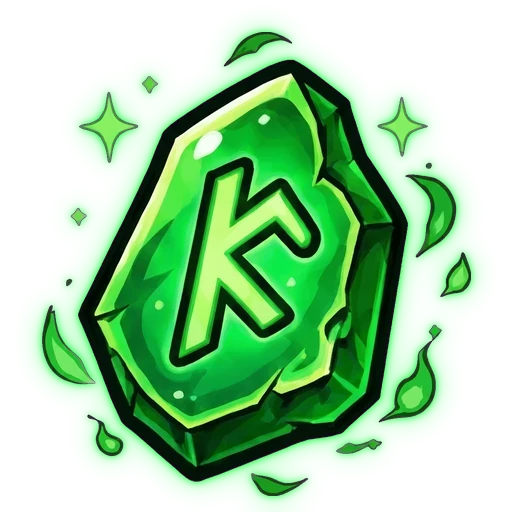
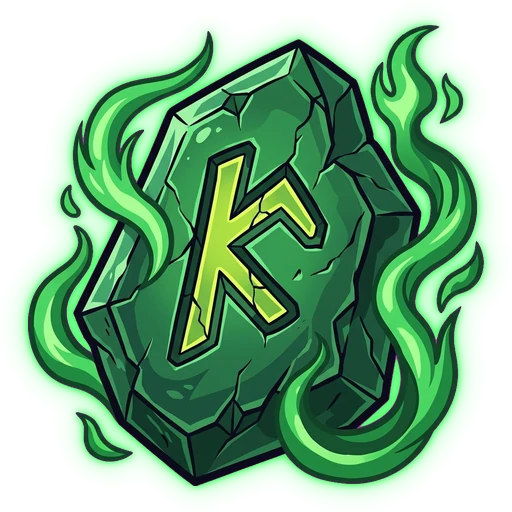
New symbols: runes and objects in the busts' cartoon style, a glowing light-blue FS, win animations for all
The runes, book, key, lantern, ring and potion are repainted in the darker cartoon style of the new characters; the FS
(scatter) is now shining light blue (its colour in the game too). Before they burst, all of them light up from their own
light layer (assets/sym-fx, their glowing parts) and a shine sweeps across; runes swell, tremble and crack with glowing
lines, the potion bubbles, lantern and book give off wisps, key, ring and FS throw sparkles. At rest runes and the FS
pulse their light gently.

diff --git a/ghost-duels-web/game.js b/ghost-duels-web/game.js
@@ -59,7 +59,7 @@ const SYM = {
   rune_purple: { name: i18n("Schattenrune", "Shadow Rune"), tier: "rune", rgb: "196 92 255", w: 10, pay: [.3, .8, 1.2, 2.5, 5, 10] },
   rune_fire:   { name: i18n("Feuerrune", "Fire Rune"), tier: "rune", rgb: "255 138 42",  w: 10, pay: [.3, .8, 1.2, 2.5, 5, 10] },
   rune_pink:   { name: i18n("Wirbelrune", "Whirl Rune"), tier: "rune", rgb: "255 79 168", w: 10, pay: [.3, .8, 1.2, 2.5, 5, 10] },
-  fs:     { name: i18n("Freispiele", "Free Spins"),       tier: "scatter", rgb: "255 79 210", w: .516, gloss: true },
+  fs:     { name: i18n("Freispiele", "Free Spins"),       tier: "scatter", rgb: "110 205 255", w: .516, gloss: true },
   vs:     { name: "VS",               tier: "special", rgb: "120 220 255", w: 0, gloss: true }
 };
 const CHARS = ["devil", "pirate", "witch", "blue"];
@@ -100,11 +100,8 @@ const RTP_TEXT = BASE_INFO.rtp.toLocaleString(RGS.lang, { minimumFractionDigits:
 
 // Face rigs, coordinates in % of the square symbol
 const RIG = {
-  // the four characters (busts) move with their win rigs (tools/sprites/symbols), not with clipped layers
-  book:    { glows: [{ x: 48, y: 40, w: 34, h: 30, c: "110 255 150" }] },
-  key:     { glows: [{ x: 57, y: 21, w: 10, h: 10, c: "255 245 140" }, { x: 70, y: 22, w: 10, h: 10, c: "255 245 140" }] },
-  lantern: { glows: [{ x: 52, y: 60, w: 26, h: 34, c: "110 255 160" }] },
-  ring:    { glows: [{ x: 55, y: 30, w: 26, h: 20, c: "245 150 255" }] }
+  // the four characters (busts) move with their win rigs (tools/sprites/symbols), not with clipped layers; the other
+  // symbols light up from their own light layers (assets/sym-fx, symFx)
 };
 
 const clip = poly => `polygon(${poly.map(([x, y]) => `${x}% ${y}%`).join(",")})`;
@@ -136,6 +133,12 @@ function makeSym(id, o = {}) {
   });
   (r.cheeks || []).forEach(c => rig.appendChild(box(div("cheek"), { ...c, h: c.w * .7 })));
   if (d.gloss) { const g = div("gloss"); g.style.webkitMaskImage = g.style.maskImage = `url(${IMG[id]})`; rig.appendChild(g); }
+  // runes, objects and the FS: their glowing parts as a light layer, and a shine that sweeps across them on a win
+  if (d.tier !== "char" && id !== "vs") {
+    const light = div("sym-light"); light.style.backgroundImage = `url(assets/sym-fx/${id}.webp)`;
+    const shine = div("sym-shine"); shine.style.webkitMaskImage = shine.style.maskImage = `url(${IMG[id]})`;
+    rig.append(light, shine);
+  }
   if (r.lids) el.classList.add("has-lids");
   rig.style.animationDelay = (-Math.random() * 3).toFixed(2) + "s";
   return el;
@@ -149,7 +152,9 @@ const POP = {
     { transform: "scale(1.25) rotate(6deg)", offset: .56 }, { transform: "scale(1.22) rotate(-4deg)", offset: .7 },
     { transform: "scale(1.15) rotate(0)", offset: .84 }, { transform: "scale(1)" }],
   obj: [{ transform: "scale(1)" }, { transform: "scale(.9)", offset: .1 }, { transform: "scale(1.22)", offset: .3 }, { transform: "scale(1.15)", offset: .75 }, { transform: "scale(1)" }],
-  rune: [{ transform: "perspective(400px) rotateY(0) scale(1)" }, { transform: "perspective(400px) rotateY(180deg) scale(1.18)", offset: .5 }, { transform: "perspective(400px) rotateY(360deg) scale(1)" }],
+  // a rune charges: it swells, trembles as its sign lights up, then cracks (symFx draws the cracks)
+  rune: [{ transform: "scale(1)" }, { transform: "scale(1.16)", offset: .25 }, { transform: "scale(1.14) rotate(-3deg)", offset: .35 }, { transform: "scale(1.15) rotate(3deg)", offset: .45 },
+    { transform: "scale(1.13) rotate(-2deg)", offset: .55 }, { transform: "scale(1.15) rotate(2deg)", offset: .65 }, { transform: "scale(1.08)", offset: .8 }, { transform: "scale(1)" }],
   scatter: [{ transform: "scale(1)" }, { transform: "scale(1.3) rotate(-7deg)", offset: .3 }, { transform: "scale(1.26) rotate(7deg)", offset: .55 }, { transform: "scale(1)" }],
   special: [{ transform: "scale(1)" }, { transform: "scale(1.2)", offset: .4 }, { transform: "scale(1)" }]
 };
@@ -197,12 +202,40 @@ function playSymRig(el, id) {
   const anim = RigPlayer.play(cv, rig, { intro: true });
   setTimeout(() => { anim.stop(); cv.remove(); el.classList.remove("rigging"); }, rig.intro * 1000 + 60);
 }
+// The win of a rune, an object or the FS: its light layer flares, a shine sweeps across it, and each kind adds its own
+// touch (cracks running through a rune, bubbles from the potion, wisps from the lantern and book, sparkles off the key
+// and the ring, a burst of light from the FS)
+const SYM_FX = { potion: "bubble", lantern: "wisp", book: "wisp", key: "spark", ring: "spark", fs: "spark" };
+function symFx(el, id, d) {
+  if (d.tier === "char" || id === "vs") return;
+  const light = q(el, ".sym-light"), shine = q(el, ".sym-shine"), dur = d.tier === "rune" ? 900 : 1300;
+  light?.animate([{ opacity: .15, transform: "scale(1)" }, { opacity: 1, transform: "scale(1.12)", offset: .35 }, { opacity: .85, transform: "scale(1.06)", offset: .7 }, { opacity: .15, transform: "scale(1)" }], { duration: dur });
+  shine?.animate([{ backgroundPosition: "-120% 0" }, { backgroundPosition: "220% 0" }], { duration: dur * .6, delay: dur * .15, easing: "ease-in-out" });
+  const [x, y, w] = centerOf(el);
+  if (d.tier === "rune") {
+    // cracks run out from the sign, then sparks of the rune's colour burst from them
+    const NS = "http://www.w3.org/2000/svg", svg = document.createElementNS(NS, "svg"); svg.setAttribute("viewBox", "0 0 100 100"); svg.setAttribute("class", "rune-cracks");
+    for (let i = 0; i < 5; i++) {
+      let px = 50, py = 50, a = i / 5 * Math.PI * 2 + Math.random() * .8, dd = `M50 50`;
+      for (let k = 0; k < 4; k++) { a += (Math.random() - .5) * 1.1; px += Math.cos(a) * (10 + Math.random() * 7); py += Math.sin(a) * (10 + Math.random() * 7); dd += ` L${px.toFixed(1)} ${py.toFixed(1)}`; }
+      const p = document.createElementNS(NS, "path"); p.setAttribute("d", dd); p.setAttribute("pathLength", "1"); svg.appendChild(p);
+    }
+    el.appendChild(svg);
+    qa(svg, "path").forEach(p => p.animate([{ strokeDashoffset: 1 }, { strokeDashoffset: 0 }], { duration: dur * .35, delay: dur * .4, fill: "backwards", easing: "ease-out" }));
+    svg.animate([{ opacity: 1 }, { opacity: 1, offset: .8 }, { opacity: 0 }], { duration: dur * 1.3 }).finished.then(() => svg.remove());
+    later(() => fx.emit(x, y, { n: 10, kind: "spark", rgb: d.rgb, scale: w / 130 }), dur * .55);
+    return;
+  }
+  const kind = SYM_FX[id]; if (!kind) return;
+  const burst = () => fx.emit(x, y - w * (kind === "bubble" ? .15 : 0), { n: kind === "spark" ? 14 : 8, kind, rgb: d.rgb, scale: w / 120 });
+  burst(); later(burst, dur * .4);
+}
 function animWin(el, mode = "win") {
   if (!el) return;
   const id = el.dataset.id, d = SYM[id];
   if (RM) { el.animate([{ filter: "brightness(1)" }, { filter: "brightness(1.7)" }, { filter: "brightness(1)" }], { duration: 600 }); return; }
   if (mode === "win") {
-    playSymRig(el, id);
+    playSymRig(el, id); symFx(el, id, d);
     el.animate(POP[d.tier], { duration: d.tier === "rune" ? 900 : 1400, easing: "ease-out" });
     const aura = q(el, ".aura");
     aura && aura.animate([{ opacity: .3, transform: "scale(.8)" }, { opacity: 1, transform: "scale(1.4)", offset: .3 }, { opacity: .3, transform: "scale(1)" }], { duration: 1200 });

diff --git a/ghost-duels-web/style.css b/ghost-duels-web/style.css
@@ -1023,3 +1023,13 @@ body:has(#winTier:not([hidden]), #totalWin:not([hidden])) #buyBtn { opacity: 0; 
   opacity: 0; transition: opacity .35s; pointer-events: none; }
 .tall.has-vid > .tall-vid { opacity: 1; }
 .tall.has-vid > .sym { visibility: hidden; }
+/* runes, objects and the FS: their glowing parts as a light layer (faint at rest, flaring on a win), a shine that sweeps
+   across them, and the cracks that run through a winning rune */
+.sym-light { position: absolute; inset: 0; background: 50% 50% / 100% 100% no-repeat; mix-blend-mode: screen; opacity: .15; pointer-events: none; }
+.t-rune .sym-light, .s-fs .sym-light { animation: symLight 2.6s ease-in-out infinite; }
+@keyframes symLight { 50% { opacity: .45; } }
+.sym-shine { position: absolute; inset: 0; pointer-events: none; mix-blend-mode: screen; -webkit-mask-size: 100% 100%; mask-size: 100% 100%;
+  background: linear-gradient(105deg, transparent 35%, rgb(255 255 255 / .75) 50%, transparent 65%) -120% 0 / 60% 100% no-repeat; }
+.rune-cracks { position: absolute; inset: 12%; width: 76%; height: 76%; overflow: visible; pointer-events: none; z-index: 3; }
+.rune-cracks path { fill: none; stroke: #fff; stroke-width: 5.5; stroke-linecap: round; stroke-linejoin: round; stroke-dasharray: 1; filter: drop-shadow(0 0 1.5px rgb(var(--c))) drop-shadow(0 0 4px rgb(var(--c))); }
+@media (prefers-reduced-motion: reduce) { .t-rune .sym-light, .s-fs .sym-light { animation: none; } }
